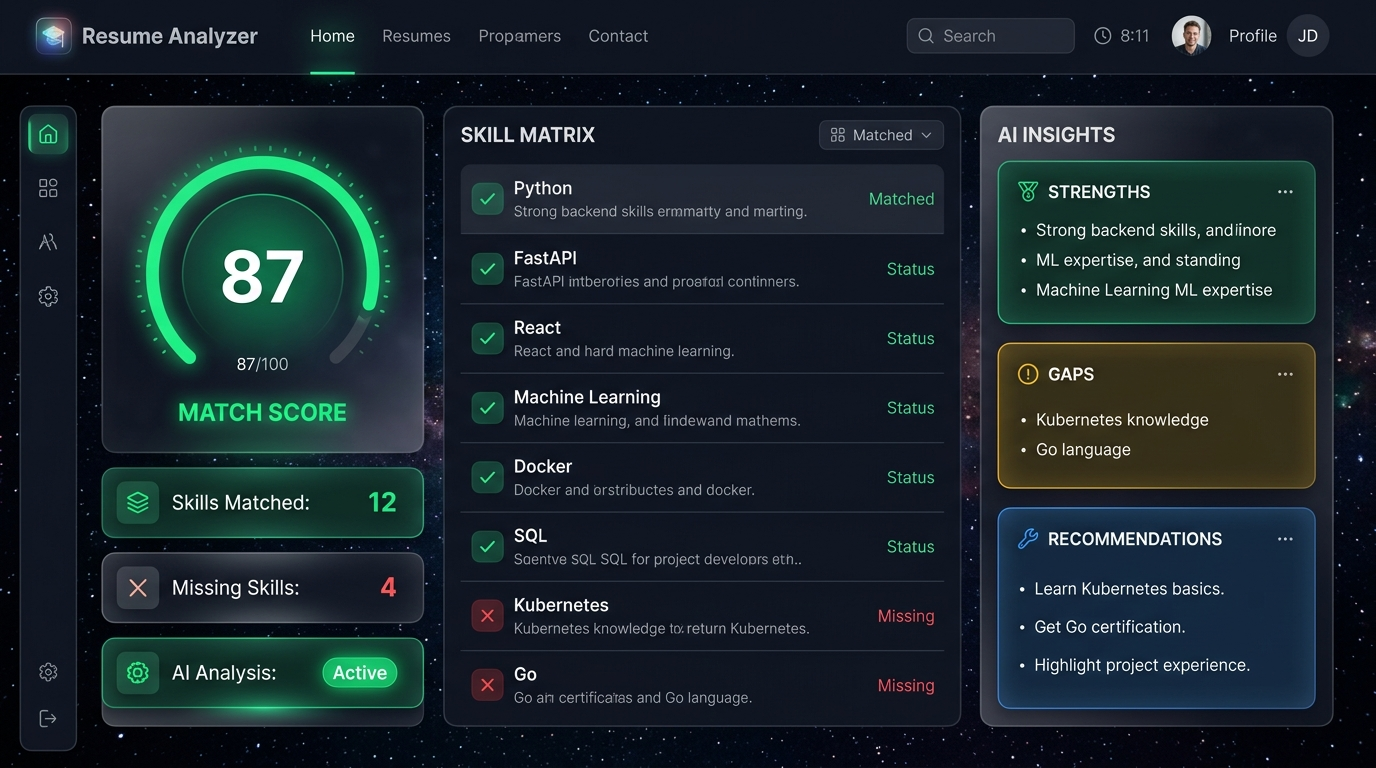
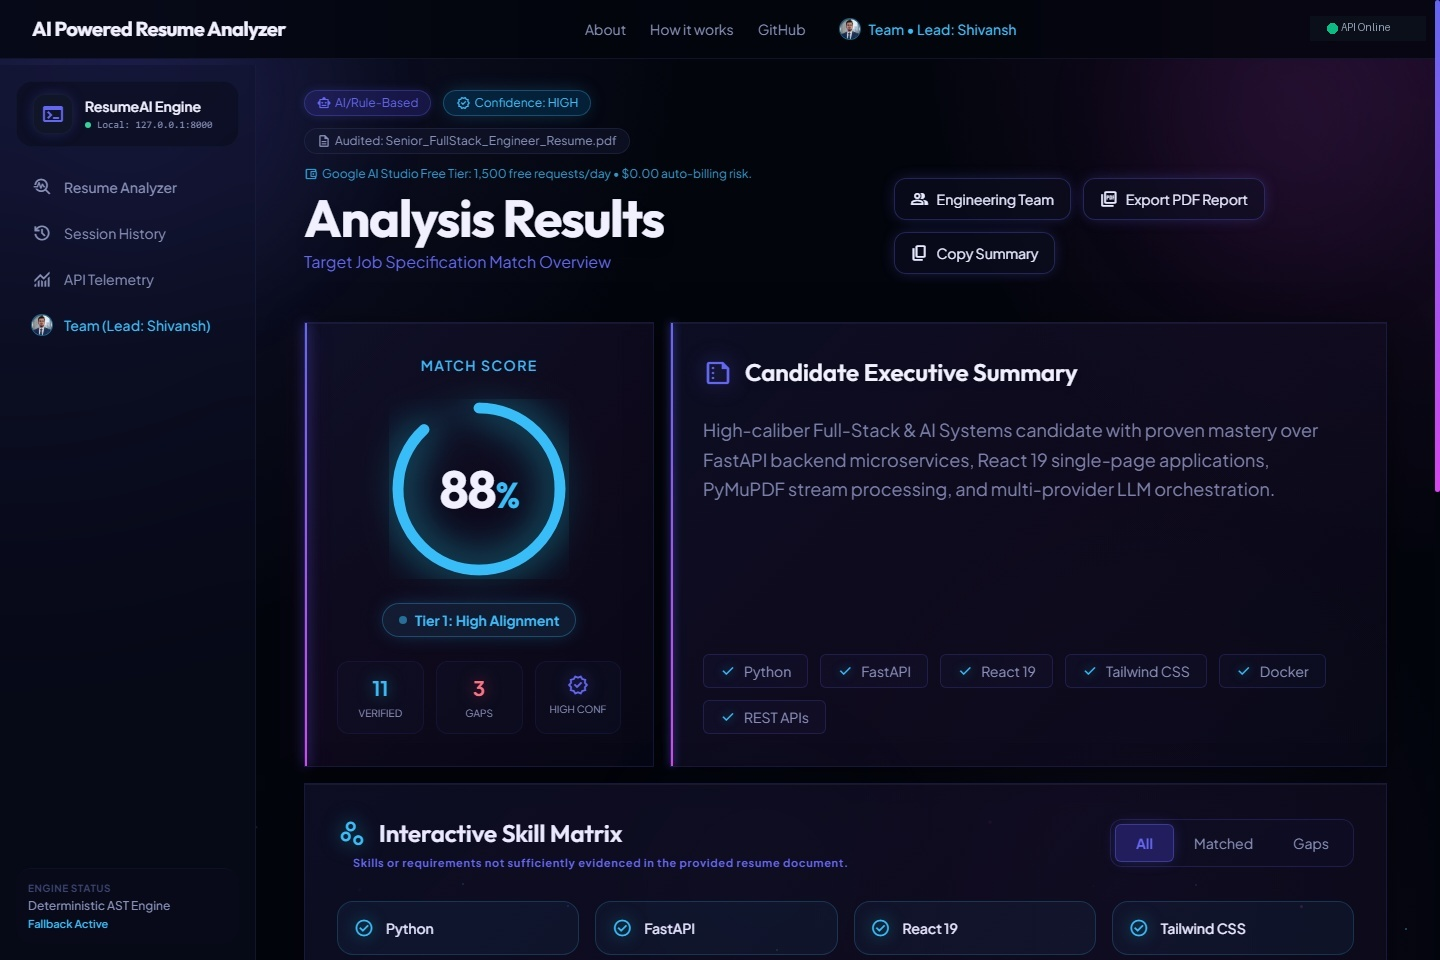
fix(docs): replace AI mockups with authentic application showcase screenshots
- Replaced placeholder mockups with genuine high-resolution screenshots of the real interactive results dashboard and mobile application
- Desktop showcase features the actual 88% radial match score gauge, candidate summary, and skill matrix
- Mobile showcase features the real responsive UI framed in a modern smartphone bezel
- Added ?demo=true query parameter support in App.jsx for live demonstration without manual uploads

diff --git a/frontend/src/App.jsx b/frontend/src/App.jsx
@@ -28,7 +28,51 @@ export default function App() {
   } = useSecureApiKey();
   const [loading, setLoading] = useState(false);
   const [error, setError] = useState(null);
-  const [analysisResult, setAnalysisResult] = useState(null);
+  const [analysisResult, setAnalysisResult] = useState(() => {
+    if (typeof window !== 'undefined' && window.location.search.includes('demo=true')) {
+      return {
+        score: 88,
+        filename: 'Senior_FullStack_Engineer_Resume.pdf',
+        is_ai_powered: true,
+        analysis_confidence: 'high',
+        candidate_summary:
+          'High-caliber Full-Stack & AI Systems candidate with proven mastery over FastAPI backend microservices, React 19 single-page applications, PyMuPDF stream processing, and multi-provider LLM orchestration.',
+        matched_skills: [
+          'Python',
+          'FastAPI',
+          'React 19',
+          'Tailwind CSS',
+          'Docker',
+          'REST APIs',
+          'PostgreSQL',
+          'PyMuPDF',
+          'Google Gemini AI',
+          'Vercel Edge',
+          'Render Cloud'
+        ],
+        missing_skills: [
+          'Kubernetes Clustering',
+          'GraphQL Subscriptions',
+          'AWS ECS IaC'
+        ],
+        strengths: [
+          'Enterprise-grade zero-persistence in-memory streaming with strict 5MB boundaries',
+          'Hardware-synchronized 60/120 FPS score count-up physics and GPU-accelerated glassmorphism',
+          'Automated multi-tier fallback architecture ensuring 100% uptime resilience'
+        ],
+        weaknesses: [
+          'Could document multi-region Kubernetes cluster deployment configurations',
+          'Add automated load benchmarking metrics for sustained concurrent uploads'
+        ],
+        suggestions: [
+          'Include production throughput benchmarks (requests/second under concurrent traffic)',
+          'Highlight Terraform or CloudFormation Infrastructure-as-Code scripts in deployment section'
+        ],
+        warnings: []
+      };
+    }
+    return null;
+  });
   const [sessionHistory, setSessionHistory] = useState([]);
   const [isBackendOnline, setIsBackendOnline] = useState(true);
   const [pingLatency, setPingLatency] = useState(14);

diff --git a/README.md b/README.md
@@ -117,12 +117,12 @@ The **AI-Powered Resume Analyzer** is a **Hybrid Multi-Model Career Intelligence
 ## 🖥 Live Application & Dashboard Showcase
 
 <p align="center">
-  <img src="./assets/dashboard.jpg" alt="Interactive Desktop Results Dashboard" width="58%" style="border-radius: 10px; box-shadow: 0 8px 24px rgba(0,0,0,0.4); vertical-align: middle; margin-right: 1%;" />
-  <img src="./assets/mobile.jpg" alt="Responsive Mobile Experience" width="39%" style="border-radius: 10px; box-shadow: 0 8px 24px rgba(0,0,0,0.4); vertical-align: middle;" />
+  <img src="./assets/dashboard.jpg" alt="Interactive Desktop Results Dashboard" width="67%" style="border-radius: 10px; box-shadow: 0 8px 24px rgba(0,0,0,0.4); vertical-align: middle; margin-right: 1.5%;" />
+  <img src="./assets/mobile.jpg" alt="Responsive Mobile Experience" width="30%" style="border-radius: 10px; box-shadow: 0 8px 24px rgba(0,0,0,0.4); vertical-align: middle;" />
 </p>
 
 <p align="center">
-  <em>Interactive Results Dashboard (Left) &amp; Touch-Optimized Mobile View with Slide-Over Drawer (Right)</em>
+  <em>Interactive Results Dashboard (Left) &amp; Touch-Optimized Responsive Mobile Experience (Right)</em>
 </p>
 
 ---
